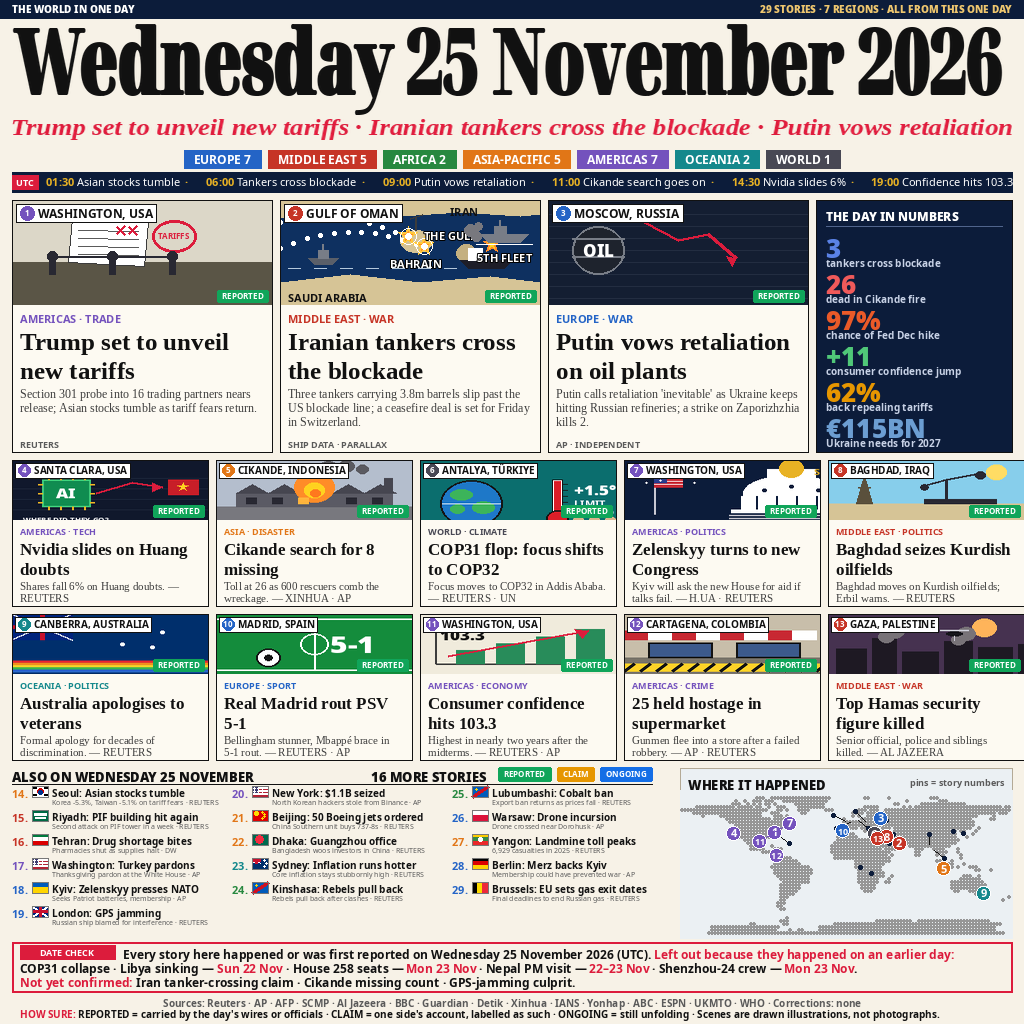
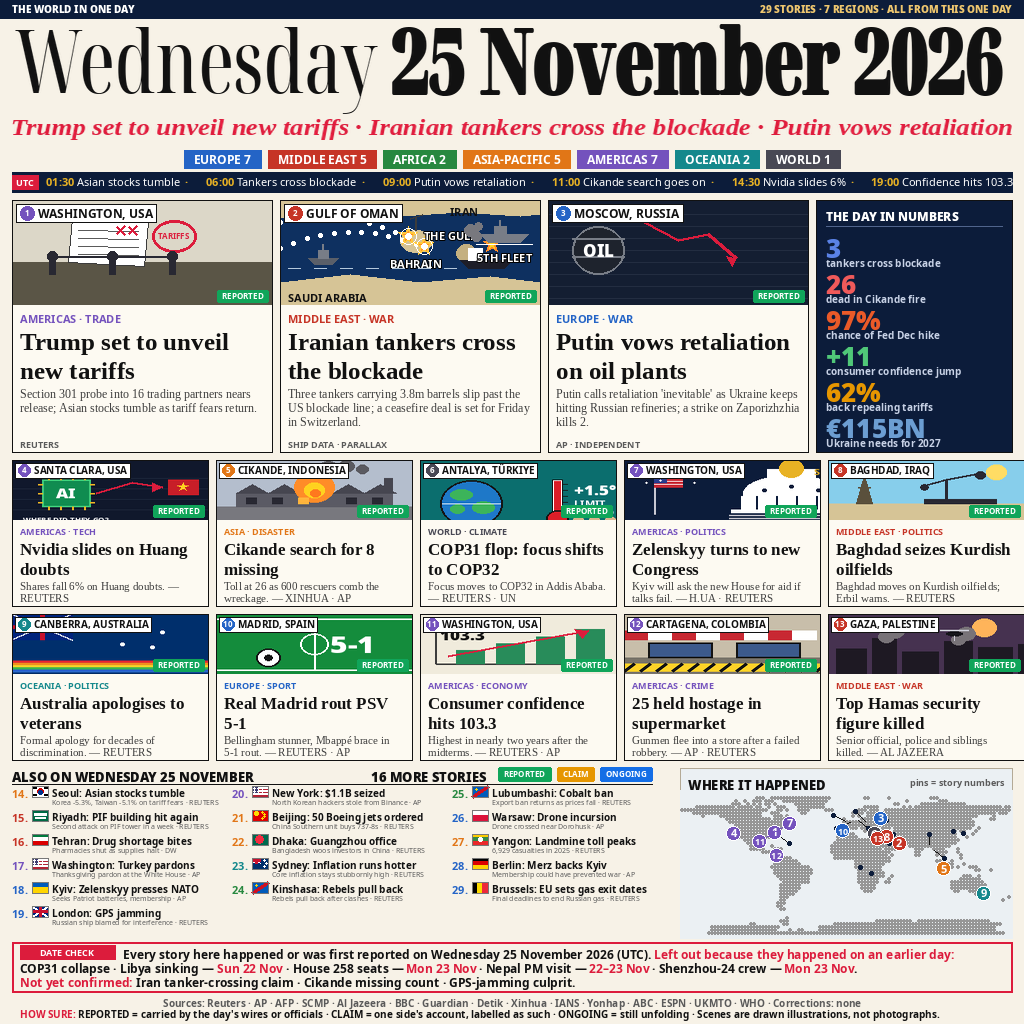
Sum 25 v1.1: Wednesday thinner

Changed region(s): [[0.0, 0.0, 0.9688, 0.125]]

diff --git a/draw.py b/draw.py
@@ -1,5 +1,5 @@
 #!/usr/bin/env python3
-"""Front page for Wednesday 25 November 2026 — v1 (sum 25).
+"""Front page for Wednesday 25 November 2026 — v1.1 (sum 25).
 
 Built from the standing news-image template (Sum 23 v3.8):
 same layout, design system and geometry; only the content is
@@ -8,6 +8,10 @@ Wednesday 25 November 2026, checked live against the wires
 (Reuters, AP, AFP, Al Jazeera, BBC, Guardian, Xinhua, IANS,
 Yonhap, ABC, DW and others). Stories that belong to an earlier
 day are named in DATE CHECK, not drawn.
+
+v1.1: the masthead word "Wednesday" is set in NotoSerifDisplay
+Medium with no stroke — about half the stem weight of the
+Black + 2px stroke used for the rest of the date (user 09:39 WIB).
 
 The pictures are flat vector shapes drawn here, the words
 are written here; nothing is photographed, pasted, or
@@ -73,6 +77,10 @@ class TY:
     # this system; size 88 gives an 86px ink height, matching
     # bagarte's masthead (86px), when squeezed to 996 wide.
     mast = _load("NotoSerifDisplay-Black.ttf", 88, NOTO)
+    # v1.1: lighter masthead face for "Wednesday" only — Medium
+    # (500) with no stroke, about half the stem weight of
+    # Black (900) + 2px stroke (user 09:39 WIB).
+    mastthin = _load("NotoSerifDisplay-Medium.ttf", 88, NOTO)
     kick = _load("NotoSans-Black.ttf", 10, NOTO)
     # v3.5: the red kicker is the ONLY bold serif besides the
     # masthead — LiberationSerif-Bold 23, stretched to fill the
@@ -1189,12 +1197,21 @@ def build():
     # horizontally to 996px so its ink top sits at 24 (ink 24-110,
     # 86px tall, matching bagarte). ----
     title = "Wednesday 25 November 2026"
-    lw = int(d.textlength(title, font=TY.mast)) + 12
+    # v1.1: "Wednesday" is half as thick as the rest of the date
+    # (user 09:39 WIB): the first word is set in Medium with no
+    # stroke, the rest stays in Black + 2px stroke.
+    wday = "Wednesday"
+    rest = " 25 November 2026"
+    w1 = int(d.textlength(wday, font=TY.mastthin))
+    w2 = int(d.textlength(rest, font=TY.mast))
+    lw = w1 + w2 + 12
     layer = Image.new("RGBA", (lw, 150), (0, 0, 0, 0))
     lt = ImageDraw.Draw(layer)
-    # BOLD: a 2px stroke on the Didone Black so the masthead reads
-    # as heavy as bagarte's (the thin Didone strokes are thickened).
-    lt.text((4, 0), title, font=TY.mast, fill=BLACK + (255,),
+    lt.text((4, 0), wday, font=TY.mastthin, fill=BLACK + (255,))
+    # BOLD: a 2px stroke on the Didone Black so the rest of the
+    # masthead reads as heavy as bagarte's (the thin Didone
+    # strokes are thickened).
+    lt.text((4 + w1, 0), rest, font=TY.mast, fill=BLACK + (255,),
             stroke_width=2, stroke_fill=BLACK + (255,))
     ink_top = layer.getbbox()[1]
     layer = layer.resize((996, 150), Image.LANCZOS)
